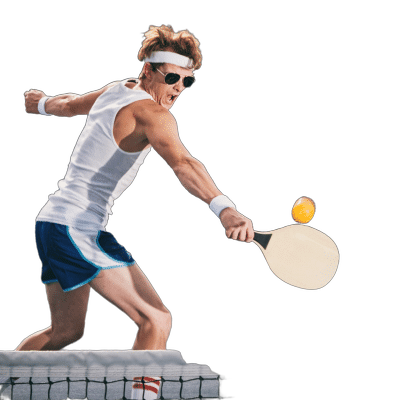
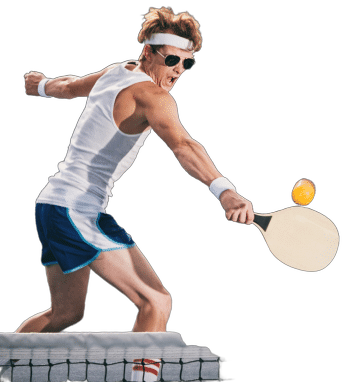
fix(mobile): maintain prominent athletic cutouts with zero text overlap across all mobile brands

diff --git a/frontend/src/components/Hero.tsx b/frontend/src/components/Hero.tsx
@@ -54,7 +54,7 @@ export const Hero: React.FC<HeroProps> = ({ onOpenDirectBooking }) => {
       <div className="absolute top-0 left-1/4 w-96 h-96 bg-[#22C55E]/10 rounded-full blur-3xl pointer-events-none -z-10" />
       <div className="absolute top-20 right-10 w-80 h-80 bg-[#84CC16]/10 rounded-full blur-3xl pointer-events-none -z-10" />
 
-      {/* Dynamic Player Action Cutouts - Responsive scale on mobile, crisp WebP format */}
+      {/* Dynamic Player Action Cutouts - Staggered vertically on mobile so cutouts remain large & bold without colliding with text */}
       <div className="absolute inset-0 overflow-hidden pointer-events-none z-0">
         {/* Left Player Cutout: Bouchard Action Strike */}
         <motion.div
@@ -69,7 +69,7 @@ export const Hero: React.FC<HeroProps> = ({ onOpenDirectBooking }) => {
             opacity: { duration: 0.8, delay: 0.1 },
             x: { duration: 0.8, delay: 0.1 }
           }}
-          className="absolute -left-8 sm:-left-3 md:left-2 lg:left-4 xl:left-8 2xl:left-14 top-14 sm:top-12 lg:top-10 w-20 xs:w-24 sm:w-44 md:w-56 lg:w-80 xl:w-96 opacity-30 sm:opacity-90 lg:opacity-100 select-none pointer-events-none z-0 transition-all"
+          className="absolute -left-4 xs:-left-3 sm:left-0 md:left-2 lg:left-4 xl:left-8 2xl:left-14 top-2 xs:top-4 sm:top-12 lg:top-10 w-28 xs:w-32 sm:w-44 md:w-56 lg:w-80 xl:w-96 opacity-90 sm:opacity-95 lg:opacity-100 select-none pointer-events-none z-0 transition-all"
         >
           {/* Luminous Emerald Stadium Back-Glow */}
           <div className="absolute -inset-4 bg-[#22C55E]/20 rounded-full blur-2xl -z-10" />
@@ -78,8 +78,8 @@ export const Hero: React.FC<HeroProps> = ({ onOpenDirectBooking }) => {
           <img
             src="/images/player-cutout-1.webp"
             alt="HousePickle Athlete Action"
-            width={800}
-            height={800}
+            width={480}
+            height={780}
             loading="eager"
             decoding="async"
             fetchPriority="high"
@@ -91,7 +91,7 @@ export const Hero: React.FC<HeroProps> = ({ onOpenDirectBooking }) => {
           />
         </motion.div>
 
-        {/* Right Player Cutout: Male Player Striking Ball */}
+        {/* Right Player Cutout: Male Player Striking Ball - Staggered down on mobile to prevent horizontal squeeze */}
         <motion.div
           style={{ y: player2ScrollY }}
           initial={{ opacity: 0, x: 30, scale: 0.95 }}
@@ -104,7 +104,7 @@ export const Hero: React.FC<HeroProps> = ({ onOpenDirectBooking }) => {
             opacity: { duration: 0.8, delay: 0.2 },
             x: { duration: 0.8, delay: 0.2 }
           }}
-          className="absolute -right-8 sm:-right-3 md:right-2 lg:right-4 xl:right-8 2xl:right-14 top-18 sm:top-16 lg:top-14 w-18 xs:w-22 sm:w-40 md:w-52 lg:w-76 xl:w-90 opacity-30 sm:opacity-90 lg:opacity-100 select-none pointer-events-none z-0 transition-all"
+          className="absolute -right-4 xs:-right-3 sm:right-0 md:right-2 lg:right-4 xl:right-8 2xl:right-14 top-28 xs:top-24 sm:top-16 lg:top-14 w-28 xs:w-32 sm:w-40 md:w-52 lg:w-76 xl:w-90 opacity-90 sm:opacity-95 lg:opacity-100 select-none pointer-events-none z-0 transition-all"
         >
           {/* Luminous Lime Stadium Back-Glow */}
           <div className="absolute -inset-4 bg-[#84CC16]/25 rounded-full blur-2xl -z-10" />
@@ -113,8 +113,8 @@ export const Hero: React.FC<HeroProps> = ({ onOpenDirectBooking }) => {
           <img
             src="/images/player-cutout-2.png"
             alt="HousePickle Player Dink Rally"
-            width={400}
-            height={400}
+            width={346}
+            height={382}
             loading="eager"
             decoding="async"
             className="w-full h-auto object-contain drop-shadow-[0_15px_30px_rgba(132,204,22,0.28)]"
@@ -129,12 +129,12 @@ export const Hero: React.FC<HeroProps> = ({ onOpenDirectBooking }) => {
       <div className="max-w-6xl mx-auto px-4 sm:px-6 relative z-10">
         {/* Dynamic Stadium Headline Block */}
         <div className="text-center max-w-3xl mx-auto mb-8 pt-2">
-          {/* Compact Eyebrow Pill - Leaves sides open so athlete faces are never blocked */}
+          {/* Compact Eyebrow Pill */}
           <motion.div
             initial={{ opacity: 0, y: -10 }}
             animate={{ opacity: 1, y: 0 }}
             transition={{ duration: 0.3 }}
-            className="inline-flex items-center justify-center gap-1.5 px-3 py-1 rounded-full bg-white/95 border border-emerald-200/90 shadow-xs mb-3 text-center max-w-[230px] xs:max-w-fit mx-auto"
+            className="inline-flex items-center justify-center gap-1.5 px-3 py-1 rounded-full bg-white/95 border border-emerald-200/90 shadow-xs mb-3 text-center max-w-[210px] xs:max-w-fit mx-auto"
           >
             <span className="w-2 h-2 rounded-full bg-[#84CC16] animate-ping shrink-0" />
             <span className="text-[10px] sm:text-[11px] font-sport font-extrabold uppercase tracking-widest text-[#15803D] truncate">
@@ -146,12 +146,12 @@ export const Hero: React.FC<HeroProps> = ({ onOpenDirectBooking }) => {
             </span>
           </motion.div>
 
-          {/* Main Display Headline with Centered Mobile Bounds - Never overlaps athletes on any phone */}
+          {/* Main Display Headline with Centered Safe Mobile Corridor - Never overlaps athletes on any phone */}
           <motion.h1
             initial={{ opacity: 0, y: 15 }}
             animate={{ opacity: 1, y: 0 }}
             transition={{ duration: 0.4, delay: 0.05 }}
-            className="text-lg xs:text-xl sm:text-4xl md:text-5xl lg:text-6xl font-heading font-black tracking-tight uppercase text-zinc-950 leading-[1.18] break-words max-w-[210px] xs:max-w-[245px] sm:max-w-xl md:max-w-2xl mx-auto drop-shadow-[0_2px_8px_rgba(255,255,255,0.95)]"
+            className="text-base xs:text-lg sm:text-4xl md:text-5xl lg:text-6xl font-heading font-black tracking-tight uppercase text-zinc-950 leading-[1.18] break-words max-w-[170px] xs:max-w-[195px] sm:max-w-xl md:max-w-2xl mx-auto drop-shadow-[0_2px_8px_rgba(255,255,255,0.95)]"
           >
             HOUSEPICKLE CLUB.{' '}
             <span className="bg-gradient-to-r from-[#15803D] via-[#16a34a] to-[#84CC16] bg-clip-text text-transparent block sm:inline">
@@ -159,22 +159,23 @@ export const Hero: React.FC<HeroProps> = ({ onOpenDirectBooking }) => {
             </span>
           </motion.h1>
 
-          {/* Concise & Short Facility Description - Confined to safe center corridor */}
+          {/* Concise & Short Facility Description - Confined strictly to safe center corridor */}
           <motion.p
             initial={{ opacity: 0, y: 10 }}
             animate={{ opacity: 1, y: 0 }}
             transition={{ duration: 0.4, delay: 0.1 }}
-            className="mt-2 text-[11px] xs:text-xs sm:text-sm md:text-base text-zinc-800 font-semibold max-w-[200px] xs:max-w-[235px] sm:max-w-lg mx-auto leading-relaxed drop-shadow-[0_1px_4px_rgba(255,255,255,0.95)]"
+            className="mt-2 text-[11px] xs:text-xs sm:text-sm md:text-base text-zinc-800 font-semibold max-w-[165px] xs:max-w-[185px] sm:max-w-lg mx-auto leading-relaxed drop-shadow-[0_1px_4px_rgba(255,255,255,0.95)]"
           >
-            Two dedicated courts in front of Aloha Suites, Koronadal City. 24/7 knee-friendly play.
+            Two dedicated courts in front of Aloha Suites.
+            <span className="block mt-0.5 text-[#15803D] font-bold">24/7 knee-friendly play.</span>
           </motion.p>
 
-          {/* Quick Stat Highlights */}
+          {/* Quick Stat Highlights - Contained within safe mobile corridor */}
           <motion.div
             initial={{ opacity: 0, y: 10 }}
             animate={{ opacity: 1, y: 0 }}
             transition={{ duration: 0.4, delay: 0.15 }}
-            className="flex flex-wrap items-center justify-center gap-1.5 sm:gap-4 mt-4 text-[10px] sm:text-[11px] font-sport font-bold uppercase tracking-wider text-zinc-700 px-2"
+            className="flex flex-wrap items-center justify-center gap-1.5 sm:gap-4 mt-3 sm:mt-4 text-[10px] sm:text-[11px] font-sport font-bold uppercase tracking-wider text-zinc-700 px-2 max-w-[240px] xs:max-w-md sm:max-w-none mx-auto"
           >
             <span className="px-2.5 sm:px-3 py-1 rounded-full bg-white border border-emerald-200 shadow-xs flex items-center gap-1.5 text-[#15803D]">
               <Clock className="w-3.5 h-3.5 shrink-0" /> Court 1 & 2 (24/7)
